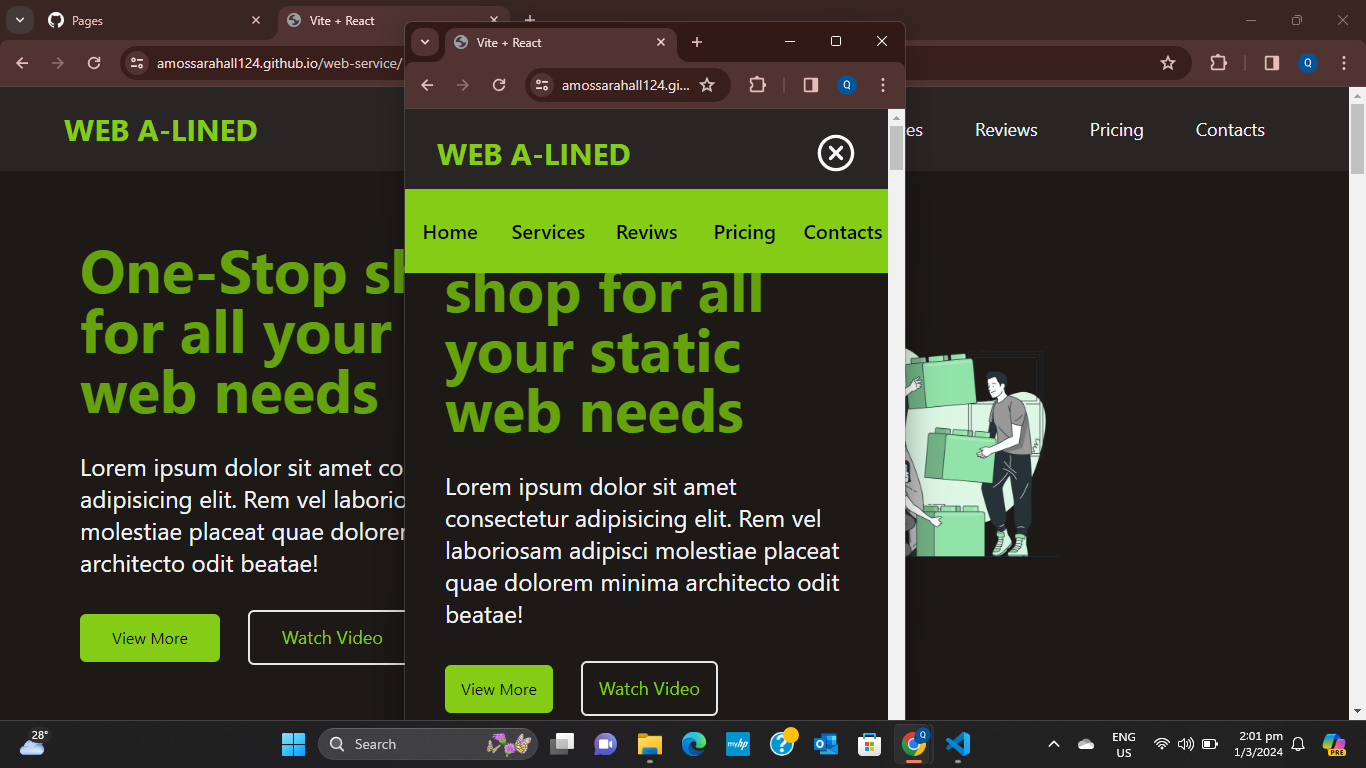
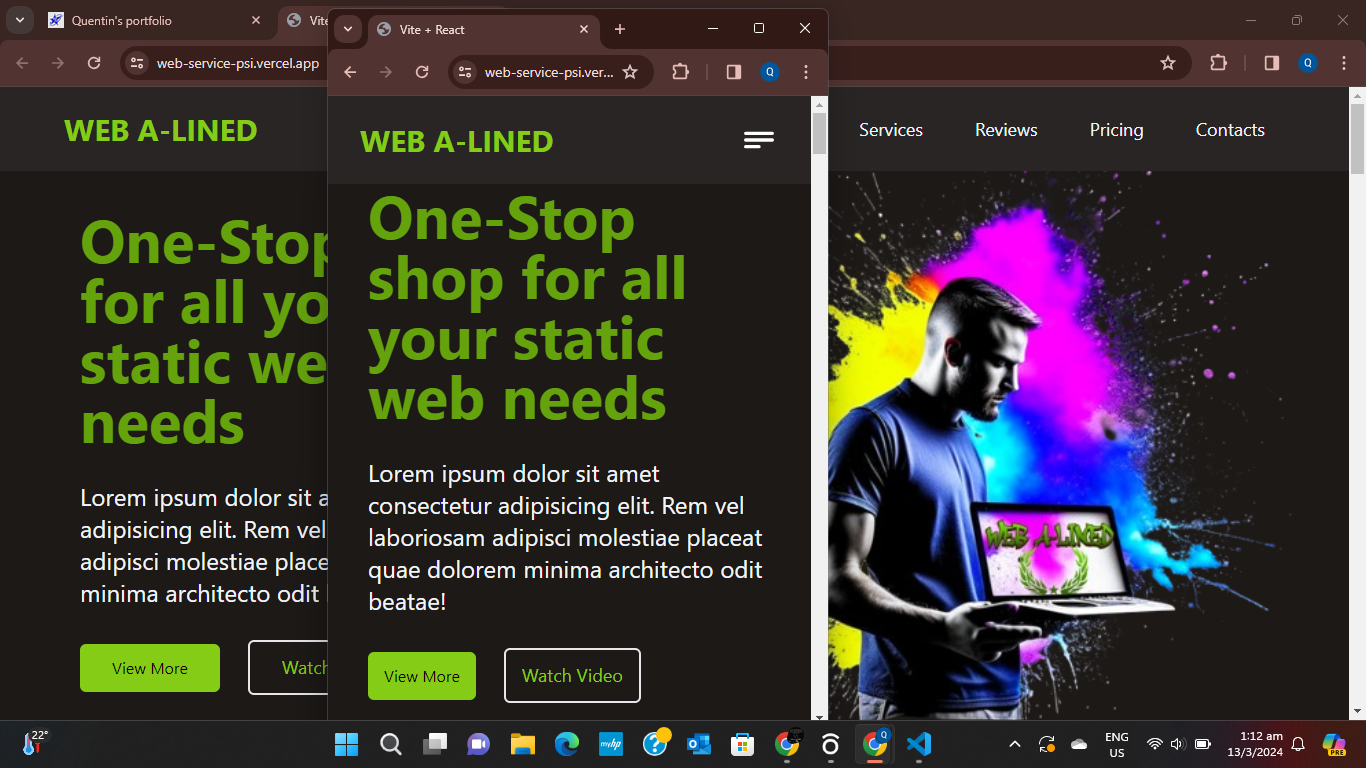
updated colors

diff --git a/src/components/AuBackground.tsx b/src/components/AuBackground.tsx
@@ -5,12 +5,12 @@ import { useEffect, useRef, useState } from "react";
 export const BackgroundGradientAnimation = ({
   gradientBackgroundStart = "rgb(0,0,0)",
   gradientBackgroundEnd = "rgb(0,0,0)",
-  firstColor = "18, 113, 255",
-  secondColor = "221, 74, 255",
-  thirdColor = "100, 220, 255",
-  fourthColor = "200, 50, 50",
-  fifthColor = "180, 180, 50",
-  pointerColor = "140, 100, 255",
+  firstColor = "3, 4, 94",
+  secondColor = "240, 239, 235",
+  thirdColor = "0, 119, 182",
+  fourthColor = "142, 154, 175",
+  fifthColor = "0, 168, 232",
+  pointerColor = "29, 36, 202",
   size = "80%",
   blendingValue = "hard-light",
   children,

diff --git a/index.html b/index.html
@@ -4,7 +4,7 @@
     <meta charset="UTF-8" />
     <link rel="icon" type="image" href="favicon.ico" />
     <meta name="viewport" content="width=device-width, initial-scale=1.0" />
-    <title>Vite + React</title>
+    <title>Quentin's portfolio</title>
   </head>
   <body>
     <div id="root"></div>
